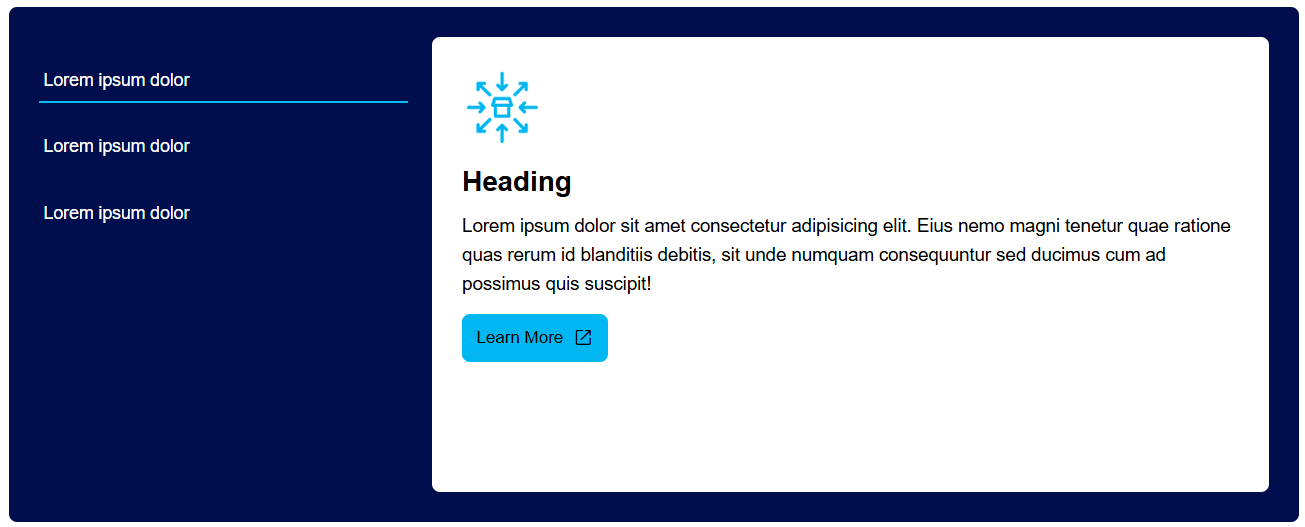
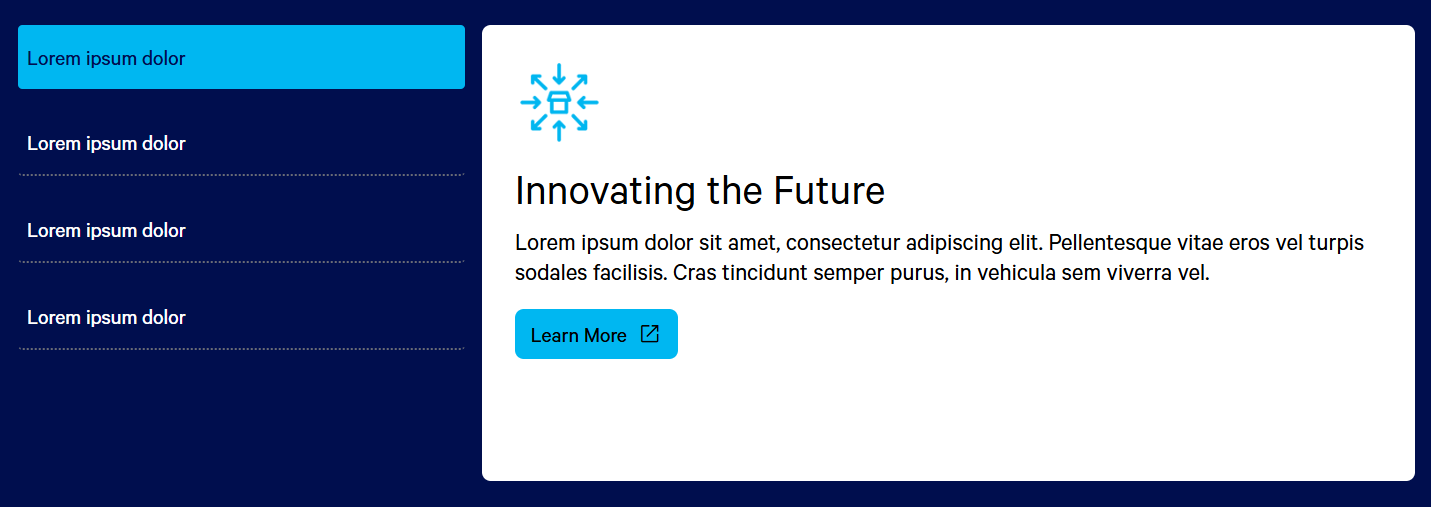
commit

Changed region(s): [[0.0, 0.0, 1.0, 1.0], [0.3678, 0.1183, 0.4291, 0.2663]]

diff --git a/3.4 LP Docs.md b/3.4 LP Docs.md
@@ -8,10 +8,12 @@ In alignment with our **new brand guidelines**, we’ve updated the Marketo land
 
 ## ✨Major Changes
 
-- [Updated Font to "Calibri, sans-serif"](#font-family-change)
-- [New Section Background Classes](#new-section-background-classes)
-- [New Button Styles](#new-button-styles)
-- [New UI Components](#new-ui-components)
+- [🖋 Updated Font to "Calibri, sans-serif"](#font-family-change)
+- [🆕 New Hero Banner](#hero-module)
+- [🎨 New Section Background Classes](#new-section-background-classes)
+- [🔘 New Button Styles](#new-button-styles)
+- [🧩 New UI Components](#new-ui-components)
+- [➕ Other Updates..](#petal-icon)
 <!-- - [Fallback Background Classes](#fallback-background-classes) -->
  
 ---
@@ -25,6 +27,29 @@ We’ve integrated a new typography stylesheet that manages:
 - Overall font styling  
 
 The global font family is now set to **"Calibri, sans-serif"**, and all LPs built with the 3.4 template will automatically inherit this style.
+
+---
+
+## 🖼Hero Module
+ 
+**Why We Created This Module** 
+
+The previous hero module had a major usability issue: it placed text content directly over the hero banner image. While this layout looked fine on larger screens, it often broke down on smaller devices. This was mainly due to the fixed dimensions of the hero image, which made it difficult to scale responsively. As a result, the overlaid text became hard to read, and the banner image was either cropped or partially hidden.This led to a poor user experience, especially on mobile.
+
+**What’s New** 
+
+Our new Hero module solves these issues with a more responsive, two-column layout:
+
+- The **left column** contains the hero content and features a **solid background color** for better readability.
+- The **right column** displays the hero image clearly without overlapping text.
+
+This approach ensures both the text and image are shown **clearly and distinctly**. On smaller screens, the layout stacks vertically first the content, then the image giving full visibility to both elements.
+
+-  Default background color for the content column is `midnight-blue`, but it can be easily customized as needed.
+ 
+ By using this new structure, we’ve improved both accessibility and mobile responsiveness, providing a better user experience across all devices.
+
+<img src="./assets/img/hero-section.png" alt="Archer Card Assets Preview" style="max-width: 500px; max-height: 400px;border-radius:8px;" />
 
 ---
 
@@ -354,8 +379,42 @@ The following background utility classes can be applied to any component, except
 </ul>    
 
 ````
+-----
+### 💧Petal Icon
+  
+To enhance the UI and create visual consistency, we created a **petal-style**  icon that appears next to text. It draws subtle attention and works especially well in headers and runnerbar links.
 
-⚠ Note: Avoid adding extra elements to these components. Use only the elements included in the boilerplate code to maintain the intended layout. However, you may safely remove any element you don’t need.
+#### How to Use
+This icon can be added by applying specific class names to your elements.
+
+**Note:** It is recommended to use this icon only with **labels** (typically `h5` tags) and **runnerbar (navbar) links** to maintain visual consistency.
+
+- **For text labels (e.g., `h5`):**  
+  Add `byicon` class to `h5` tag
+
+  ```html
+  <h5 class="byicon">Lable</h5>
+  ```
+
+- **For Navbar links:**  
+  Add `link-icon` class to `h5` tag
+
+  ```html
+  <li><a href="#first_section" class="nav-jump mchNoDecorate btn link-icon">Info</a></li>
+  ```
+
+  <img src="./assets/img/by-icon.png" alt="by-icon" style="max-width: 500px; max-height: 300px;border-radius:8px;" />
+-----
+### 🔧 Logo Size Variable
+We added a new variable in the Marketo editor to adjust logo size. It’s set to `small` by default, but for `ABM pages` using logo lockups, you can increase the size to better fit wider no code changes needed.
+
+<img src="./assets/img/logo-size.png" alt="logo-size" style="max-width: 500px; max-height: 300px;border-radius:8px;" />
+
+----
+<br>
+<br>
+
+⚠ Note: Avoid adding extra elements to these UI components. Use only the elements included in the boilerplate code to maintain the intended layout. However, you may safely remove any element you don’t need.
 
 🔖 *Please save this document for future reference, as it will be regularly updated with new UI modules.*
 
